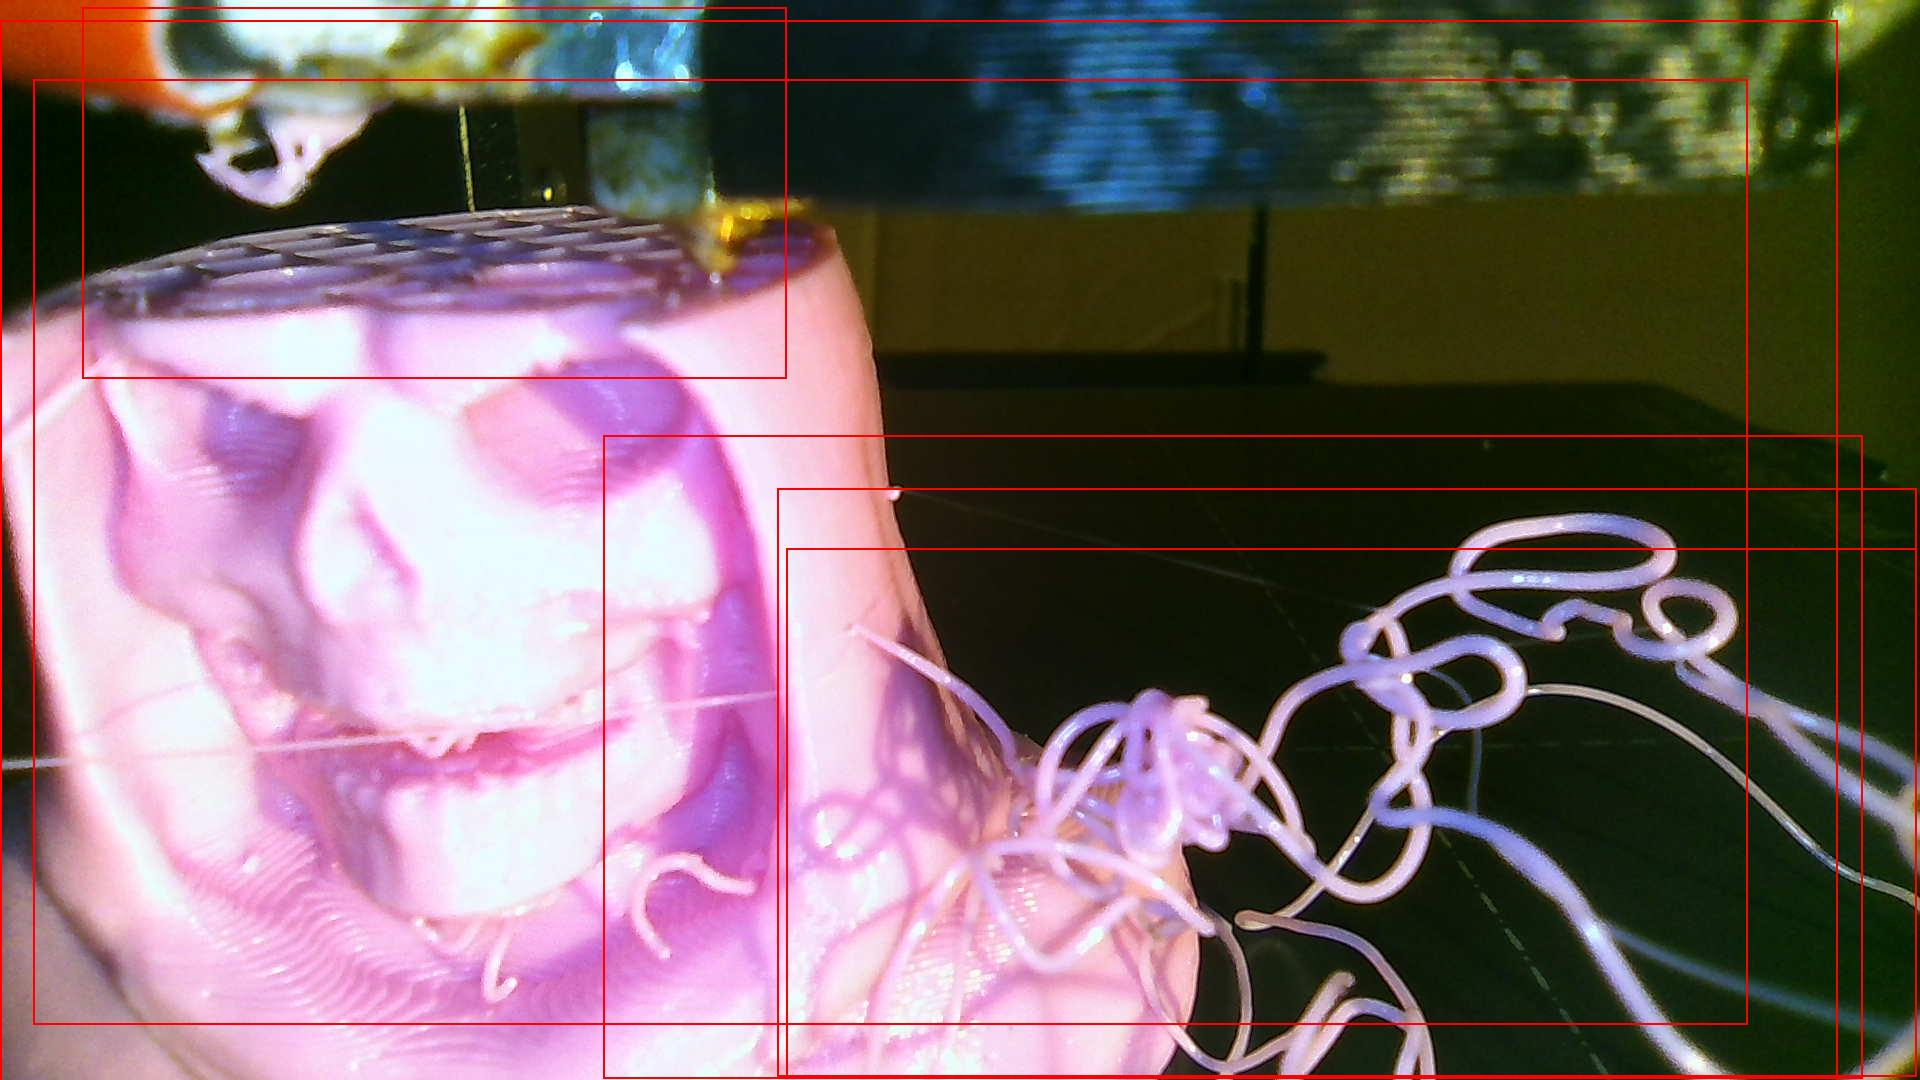
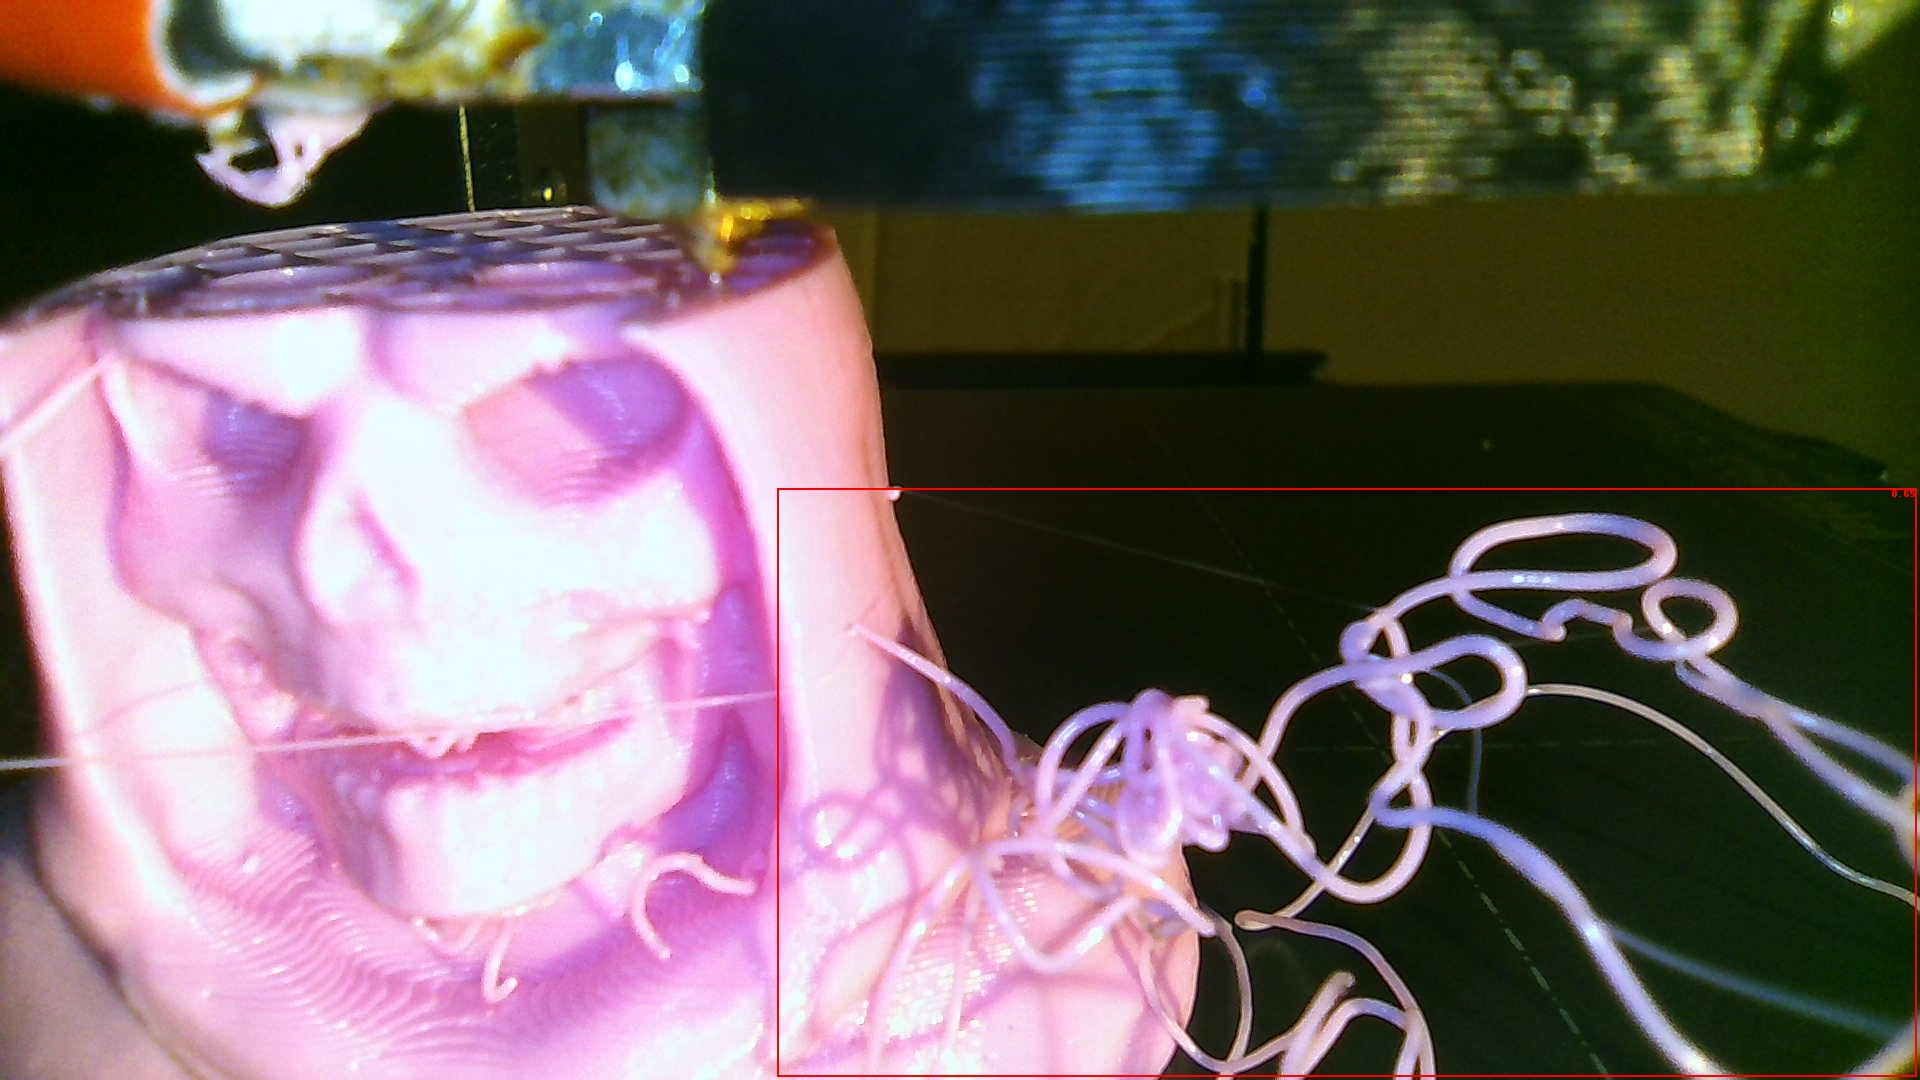
update the code

diff --git a/AI/Model/inference.py b/AI/Model/inference.py
@@ -41,8 +41,7 @@ def _generate_anchors(stride, ratio_vals, scales_vals, angles_vals=None):
     
     return torch.cat([xy1, xy2], dim=1)
 
-
-def _nms_bak(all_scores, all_boxes, all_classes, nms=0.5, ndetections=100):
+def _nms(all_scores, all_boxes, all_classes, nms=0.5, ndetections=100, rounding_decimal=1):
     """Apply Non-Maximum Suppression (NMS) on prediction boxes.
 
     This function suppresses boxes that have a high overlap with other boxes 
@@ -59,66 +58,11 @@ def _nms_bak(all_scores, all_boxes, all_classes, nms=0.5, ndetections=100):
         tuple: Three tensors containing the scores, boxes, and classes after applying NMS.
 
     """
-    
-    device = all_scores.device
+
     batch_size = all_scores.size()[0]
-    out_scores = torch.zeros((batch_size, ndetections), device=device)
-    out_boxes = torch.zeros((batch_size, ndetections, 4), device=device)
-    out_classes = torch.zeros((batch_size, ndetections), device=device)
-
-    # Process each item in the batch
-    for batch in range(batch_size):
-        # Filter out boxes with null scores
-        keep = (all_scores[batch, :].view(-1) > 0).nonzero()
-        scores = all_scores[batch, keep].view(-1)
-        boxes = all_boxes[batch, keep, :].view(-1, 4)
-        classes = all_classes[batch, keep].view(-1)
-
-        if scores.nelement() == 0:
-            continue
-
-        # Sort boxes based on scores in descending order
-        scores, indices = torch.sort(scores, descending=True)
-        boxes, classes = boxes[indices], classes[indices]
-        
-        # Compute areas of the boxes
-        areas = (boxes[:, 2] - boxes[:, 0] + 1) * (boxes[:, 3] - boxes[:, 1] + 1).view(-1)
-        keep = torch.ones(scores.nelement(), device=device, dtype=torch.uint8).view(-1)
-
-        for i in range(ndetections):
-            if i >= keep.nonzero().nelement() or i >= scores.nelement():
-                i -= 1
-                break
-
-            # Identify boxes that overlap too much with the current box
-            xy1 = torch.max(boxes[:, :2], boxes[i, :2])
-            xy2 = torch.min(boxes[:, 2:], boxes[i, 2:])
-            inter = torch.prod((xy2 - xy1 + 1).clamp(0), 1)
-            criterion = ((scores > scores[i]) |
-                         (inter / (areas + areas[i] - inter) <= nms) |
-                         (classes != classes[i]))
-            criterion[i] = 1
-
-            # Keep boxes based on the criterion
-            scores = scores[criterion.nonzero()].view(-1)
-            boxes = boxes[criterion.nonzero(), :].view(-1, 4)
-            classes = classes[criterion.nonzero()].view(-1)
-            areas = areas[criterion.nonzero()].view(-1)
-            keep[(~criterion).nonzero()] = 0
-
-        # Store the post-NMS scores, boxes, and classes
-        out_scores[batch, :i + 1] = scores[:i + 1]
-        out_boxes[batch, :i + 1, :] = boxes[:i + 1, :]
-        out_classes[batch, :i + 1] = classes[:i + 1]
-
-    return out_scores, out_boxes, out_classes
-
-def _nms(all_scores, all_boxes, all_classes, nms=0.5, ndetections=100, rounding_decimal=1):
-    device = all_scores.device
-    batch_size = all_scores.size()[0]
-    out_scores = torch.zeros((batch_size, ndetections), device=device)
-    out_boxes = torch.zeros((batch_size, ndetections, 4), device=device)
-    out_classes = torch.zeros((batch_size, ndetections), device=device)
+    out_scores = torch.zeros((batch_size, ndetections))
+    out_boxes = torch.zeros((batch_size, ndetections, 4))
+    out_classes = torch.zeros((batch_size, ndetections))
 
     for batch in range(batch_size):
         keep = all_scores[batch, :].nonzero(as_tuple=True)[0]
@@ -128,13 +72,13 @@ def _nms(all_scores, all_boxes, all_classes, nms=0.5, ndetections=100, rounding_
             continue
 
         # Round the class scores to the specified number of decimal places
-        classes_rounded = torch.round(classes * 10**rounding_decimal) / 10**rounding_decimal
+        classes = torch.round(classes)
 
         scores, indices = torch.sort(scores, descending=True, dim=0)
         boxes, classes = boxes[indices], classes[indices]
 
         areas = (boxes[:, 2] - boxes[:, 0] + 1) * (boxes[:, 3] - boxes[:, 1] + 1)
-        keep = torch.ones(scores.nelement(), device=device, dtype=torch.uint8)
+        keep = torch.ones(scores.nelement(), dtype=torch.uint8)
 
         for i in range(ndetections):
             if i >= keep.nonzero().nelement() or i >= scores.nelement():
@@ -146,7 +90,7 @@ def _nms(all_scores, all_boxes, all_classes, nms=0.5, ndetections=100, rounding_
             inter = torch.prod((xy2 - xy1 + 1).clamp(0), 1)
             criterion = ((scores > scores[i]) |
                          (inter / (areas + areas[i] - inter) <= nms) |
-                         (classes_rounded != classes_rounded[i]))
+                         (classes != classes[i]))
             criterion[i] = 1
 
             keep &= criterion
@@ -160,7 +104,7 @@ def _nms(all_scores, all_boxes, all_classes, nms=0.5, ndetections=100, rounding_
         out_scores[batch, :final_count] = scores[:final_count]
         out_boxes[batch, :final_count, :] = boxes[:final_count, :]
         out_classes[batch, :final_count] = classes[:final_count]
-
+        
     return out_scores, out_boxes, out_classes
 
 def _delta2box(deltas, anchors, size, stride):
@@ -192,8 +136,8 @@ def _delta2box(deltas, anchors, size, stride):
     pred_wh = torch.exp(deltas_float32[:, 2:]) * anchors_wh
 
     # Define the minimum and maximum values for clamping
-    m = torch.zeros([2], device=deltas.device, dtype=deltas.dtype)
-    M = (torch.tensor([size], device=deltas.device, dtype=deltas.dtype) * stride - 1)
+    m = torch.zeros([2], dtype=deltas.dtype)
+    M = (torch.tensor([size], dtype=deltas.dtype) * stride - 1)
     # Define a clamping function to ensure the bounding boxes are within the image boundaries
     clamp = lambda t: torch.max(m, torch.min(t, M))
     
@@ -232,18 +176,17 @@ def _decode(all_cls_head, all_box_head, stride=1, threshold=0.05, top_n=1000, an
         anchors = anchors[0]
     num_boxes = 4 if not rotated else 6
 
-    # Set device, anchor type, and get dimensions
-    device = all_cls_head.device
-    anchors = anchors.to(device).type(all_cls_head.type())
+    # Set anchor type, and get dimensions
+    anchors = anchors.type(all_cls_head.type())
     num_anchors = anchors.size()[0] if anchors is not None else 1
     num_classes = all_cls_head.size()[1] // num_anchors
     height, width = all_cls_head.size()[-2:]
 
     # Initialize output tensors
     batch_size = all_cls_head.size()[0]
-    out_scores = torch.zeros((batch_size, top_n), device=device)
-    out_boxes = torch.zeros((batch_size, top_n, num_boxes), device=device)
-    out_classes = torch.zeros((batch_size, top_n), device=device)
+    out_scores = torch.zeros((batch_size, top_n))
+    out_boxes = torch.zeros((batch_size, top_n, num_boxes))
+    out_classes = torch.zeros((batch_size, top_n))
 
     # Decode boxes for each item in the batch
     for batch in range(batch_size):
@@ -341,7 +284,7 @@ def largest_power_of_two(n):
     # Return the largest power of 2
     return 2 ** exponent
 
-def image_inference(input_image, scores_threshold, img_sensitivity):
+def image_inference(input_image, scores_threshold, img_sensitivity,cpu_speed_control=0.5):
     """
     Performs inference on the given image using a pre-trained ONNX model.
 
@@ -349,6 +292,10 @@ def image_inference(input_image, scores_threshold, img_sensitivity):
     - input_image (PIL.Image.Image): The input image on which inference is to be performed.
     - scores_threshold (float): Threshold for filtering boxes based on scores.
     - img_sensitivity (float): Sensitivity value used for calculating severity.
+    - cpu_speed_control (float): Control parameter for adjusting CPU usage. 
+                                 A lower value results in lower CPU usage while a higher value 
+                                 may increase the CPU usage for potentially faster inference. 
+                                 The value should be between 0 and 1, where 0.5 is the default.    
 
     Outputs:
     - scores (numpy.ndarray): Confidence scores for each detected box.
@@ -362,15 +309,14 @@ def image_inference(input_image, scores_threshold, img_sensitivity):
     # model internal parameters
     _proc_img_width =480
     _proc_img_height=288
-    #num_threads=2
-    speed_control=0.5
+    
     bin_file="nozcam_test_q.bin"
 
     # Get the total number of CPU cores
     total_cpu_cores = multiprocessing.cpu_count()
 
     # Use half of the total CPU cores, or 1 if there's only 1 core
-    num_threads_candidate = max(1, math.ceil(total_cpu_cores * speed_control))
+    num_threads_candidate = max(1, math.ceil(total_cpu_cores * cpu_speed_control))
     num_threads = largest_power_of_two(num_threads_candidate)
 
     # Get the width and height of the image

diff --git a/AI/Model/backend.py b/AI/Model/backend.py
@@ -13,6 +13,7 @@ area_threshold = 0.04
 img_sensitivity = 0.04
 scores_threshold = 0.65
 max_count=10
+cpu_speed_control=0.5
 count_time=5*60
 inference_interval=10
 
@@ -47,7 +48,8 @@ while True:
     response = requests.post('http://127.0.0.1:50000/infer', 
                              data={'image': encoded_string, 
                                    'scores_threshold': scores_threshold, 
-                                   'img_sensitivity': img_sensitivity})
+                                   'img_sensitivity': img_sensitivity,
+                                   'cpu_speed_control':cpu_speed_control})
 
     # Check the response
     if response.ok:
@@ -107,10 +109,20 @@ while True:
 
 # Draw boxes
 draw = ImageDraw.Draw(input_image)
-for box in boxes[0]:  # Assuming you have a single image and boxes is a list of bounding boxes
-    # Extract corners
-    x1, y1, x2, y2 = box
-    draw.rectangle([(x1, y1), (x2, y2)], outline="red", width=2)
+
+# Iterate through all boxes, scores, and labels in the first image
+for box, score, label in zip(boxes[0], scores[0], labels[0]):
+    # Check if label is 1 and score is greater than or equal to printlayout_threshold
+    if label == 1 and score >= printlayout_threshold:
+        # Extract corners
+        x1, y1, x2, y2 = box
+        draw.rectangle([(x1, y1), (x2, y2)], outline=color, width=2)
+
+        # Format score as a string and draw it
+        score_text = f"{score:.2f}"
+        text_size = draw.textsize(score_text)
+        text_position = (x2 - text_size[0], y1)
+        draw.text(text_position, score_text, fill=color)
 
 # Save the image with boxes
 input_image.save("result.jpg")

diff --git a/AI/Model/flaskAI.py b/AI/Model/flaskAI.py
@@ -17,10 +17,11 @@ def infer():
     # Get the thresholds and parameters from the request
     scores_threshold = float(request.form['scores_threshold'])
     img_sensitivity = float(request.form['img_sensitivity'])
+    cpu_speed_control = float(request.form['cpu_speed_control'])
 
     # Call the image_inference function
     scores, boxes, labels, severity, elapsed_time = image_inference(
-        input_image, scores_threshold, img_sensitivity)
+        input_image, scores_threshold, img_sensitivity,cpu_speed_control)
 
     # Convert ndarray to list
     if isinstance(scores, np.ndarray):
